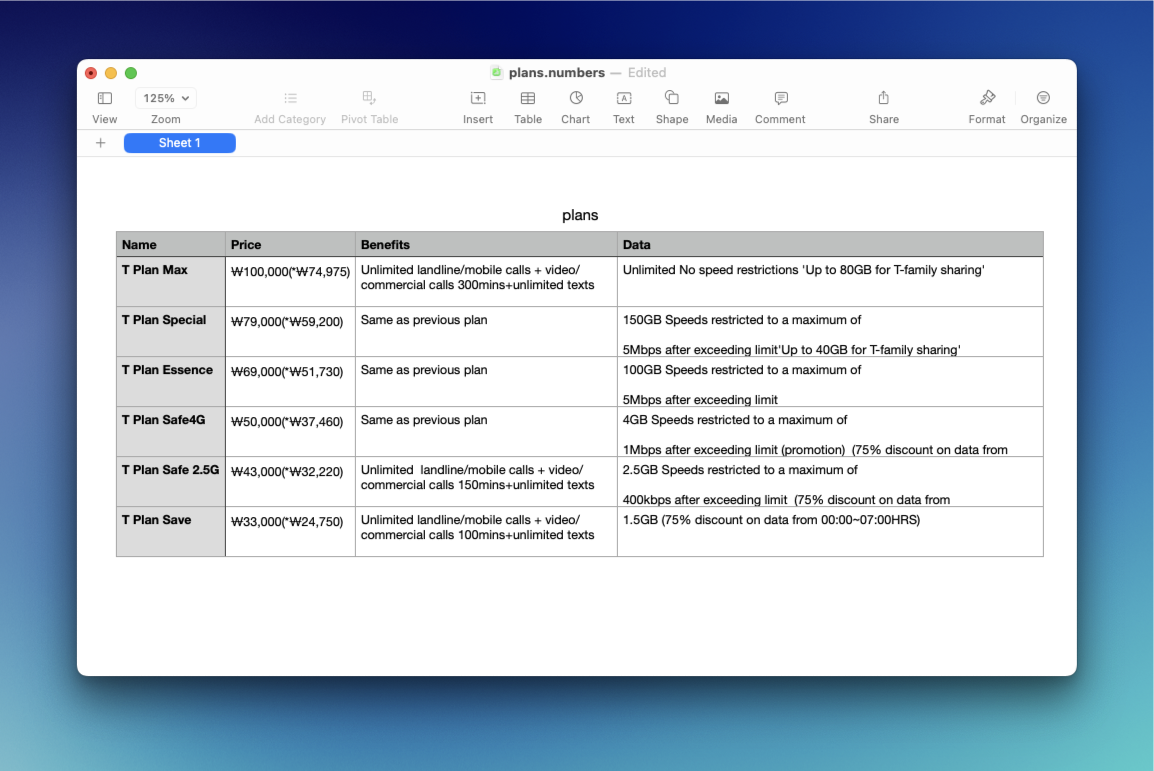
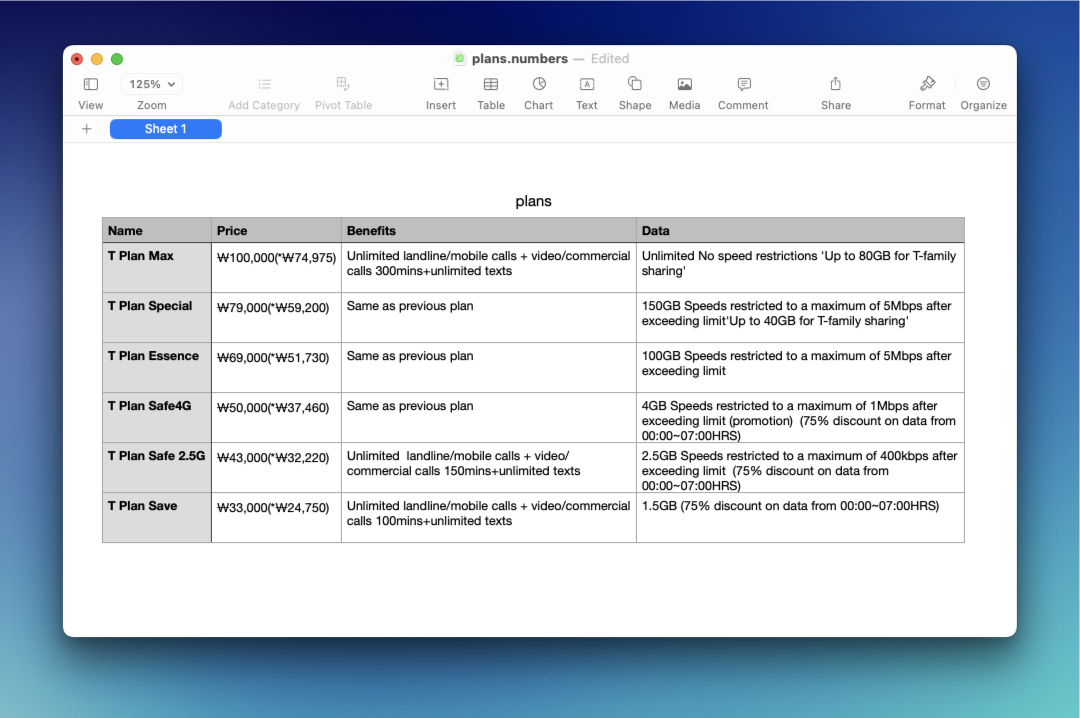
fixed unnecessary spaces

Changed region(s): [[0.0306, 0.0613, 0.9472, 0.9192], [0.7333, 0.1226, 0.7944, 0.1838]]

diff --git a/app.py b/app.py
@@ -56,11 +56,13 @@ def print_plans(plan_list):
         benefits = benefits.encode('ascii', 'replace').decode()
         data = data.encode('ascii', 'replace').decode()
         data = data.replace('???', "'")
+        data = data.replace('\n', "")
+        data = data.replace('\t', "")
         
         print(f"{i}. {name}")
-        print(f"\t\t\tPrice: {price}")
-        print(f"\t\t\tBenefits: {benefits}")
-        print(f"\t\t\tData: {data}\n")
+        print(f"\tPrice: {price}")
+        print(f"\tBenefits: {benefits}")
+        print(f"\tData: {data}\n")
 
 def save_to_csv(plan_list):
     """Save the plans to a CSV file"""
@@ -79,6 +81,8 @@ def save_to_csv(plan_list):
             benefits = benefits.encode('ascii', 'replace').decode()
             data = data.encode('ascii', 'replace').decode()
             data = data.replace('???', "'")
+            data = data.replace('\n', "")
+            data = data.replace('\t', "")
             writer.writerow([name, price, benefits, data])
     
     print(f"\nPlans have been saved to {csv_file}")
